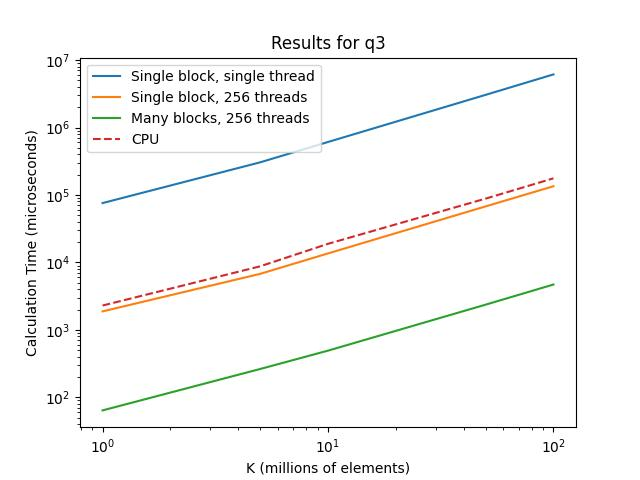
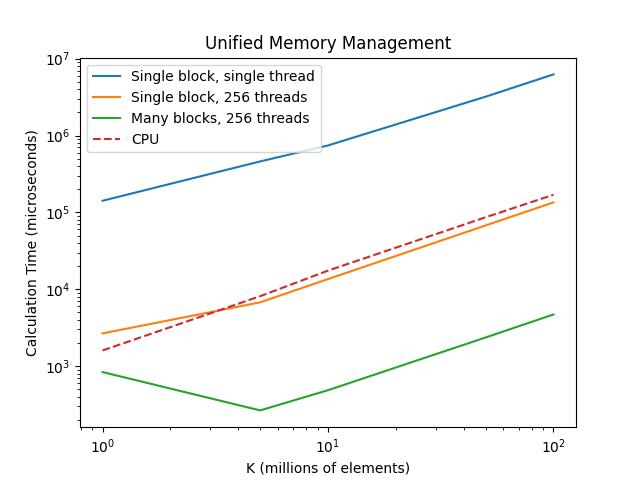
Part B

diff --git a/hmwk3/CUDA1/Part-B/utils.cpp b/hmwk3/CUDA1/Part-B/utils.cpp
@@ -23,11 +23,11 @@ void write_to_csv(const string& question, const string& scenario, int K, microse
 }
 
 void print_results(alloc_sum_result result) {
-    cout << "Total Time: " << duration_cast<milliseconds>(result.total_time).count() << "ms" << endl;
-    cout << "Allocation Time: " << duration_cast<milliseconds>(result.alloc_time).count() << "ms" << endl;
-    cout << "Populate Time: " << duration_cast<milliseconds>(result.populate_time).count() << "ms" << endl;
+    // cout << "Total Time: " << duration_cast<milliseconds>(result.total_time).count() << "ms" << endl;
+    // cout << "Allocation Time: " << duration_cast<milliseconds>(result.alloc_time).count() << "ms" << endl;
+    // cout << "Populate Time: " << duration_cast<milliseconds>(result.populate_time).count() << "ms" << endl;
     cout << "Calculation Time: " << duration_cast<microseconds>(result.calc_time).count() << "us" << endl;
-    cout << "Total Time: " << duration_cast<milliseconds>(result.total_time).count() << "ms" << endl;
+    // cout << "Total Time: " << duration_cast<milliseconds>(result.total_time).count() << "ms" << endl;
     cout << "Last Sum Value: " << result.last_sum << endl;
 }
 
@@ -51,12 +51,13 @@ void run_cuda_tests(size_t elems, const string& question){
     // Must be multiple of largest threads (256)
     elems = ((elems + 255) / 256) * 256;
 
-    cout << "Using array of size: " << elems << endl;
+    cout << "K=" << elems << endl;
   
 
     size_t blocks = 1;
     size_t threads = 1;
-    cout << "\nRunning test with " << blocks << " blocks/grid and " << threads << " threads per block\n";
+    //cout << "\nRunning test with " << blocks << " blocks/grid and " << threads << " threads per block\n";
+    cout << "\nBlocks=" << blocks << "\nThreads/block=" << threads << endl;
     auto result = time_sum_arrays(elems, blocks, threads);
     print_results(result);
     write_to_csv(question, "1b-1t", elems, result.calc_time);
@@ -64,14 +65,16 @@ void run_cuda_tests(size_t elems, const string& question){
 
     blocks = 1;
     threads = 256;
-    cout << "\nRunning test with " << blocks << " blocks/grid and " << threads << " threads per block\n";
+   // cout << "\nRunning test with " << blocks << " blocks/grid and " << threads << " threads per block\n";
+    cout << "\nBlocks=" << blocks << "\nThreads/block=" << threads << endl;
     result = time_sum_arrays(elems, blocks, threads);
     print_results(result);
     write_to_csv(question, "1b-256t", elems, result.calc_time);
 
     threads = 256;
     blocks = elems / 256;
-    cout << "\nRunning test with " << blocks << " blocks/grid and " << threads << " threads per block\n";
+    //cout << "\nRunning test with " << blocks << " blocks/grid and " << threads << " threads per block\n";
+    cout << "\nBlocks=" << blocks << "\nThreads/block=" << threads << endl;
     result = time_sum_arrays(elems, blocks, threads);
     print_results(result);
     write_to_csv(question, "MANYb-256t", elems, result.calc_time);

diff --git a/hmwk3/CUDA1/Part-B/q4.py b/hmwk3/CUDA1/Part-B/q4.py
@@ -17,7 +17,7 @@ name_from_scenario = {
     "q1": "CPU"
 }
 
-def plot_results(data, question, filename):
+def plot_results(data, question, q_alias, filename):
     df = pd.DataFrame(data)
     df = df[df['question'] == question]
     df['K'] = df['K'].astype(int) / 1e6
@@ -39,7 +39,7 @@ def plot_results(data, question, filename):
     
     plt.xlabel('K (millions of elements)')
     plt.ylabel('Calculation Time (microseconds)')
-    plt.title(f'Results for {question}')
+    plt.title(q_alias)
     plt.legend()
     plt.yscale('log')
     plt.xscale('log')
@@ -51,8 +51,8 @@ def main():
     file_path = 'results.csv'
     data = read_csv(file_path)
 
-    plot_results(data, 'q3', "q4_with_unified.jpg")
-    plot_results(data, 'q2', "q4_without_unified.jpg")
+    plot_results(data, 'q3', "Unified Memory Management", "q4_with_unified.jpg")
+    plot_results(data, 'q2', "Explicit Memory Management", "q4_without_unified.jpg")
 
 if __name__ == "__main__":
     main()

diff --git a/hmwk3/CUDA1/Part-B/q1.cpp b/hmwk3/CUDA1/Part-B/q1.cpp
@@ -25,6 +25,8 @@ alloc_sum_result time_sum_arrays(size_t count, size_t blocks, size_t threads) {
         return result;
     }
 
+    cout << "Blocks=" << blocks << "\nThreads/block=" << threads << endl;
+
     auto t0 = high_resolution_clock::now();
     
     float *array1, *array2, *out;
@@ -90,7 +92,7 @@ int main(int const argc, char *argv[]) {
         exit(1);
     }
 
-    cout << "Using array of size: " << elems << "M" << endl;
+    cout << "K=" << elems << "M" << endl;
     elems *= 1e6;
     auto result = time_sum_arrays(elems, 1, 1);
     print_results(result);
